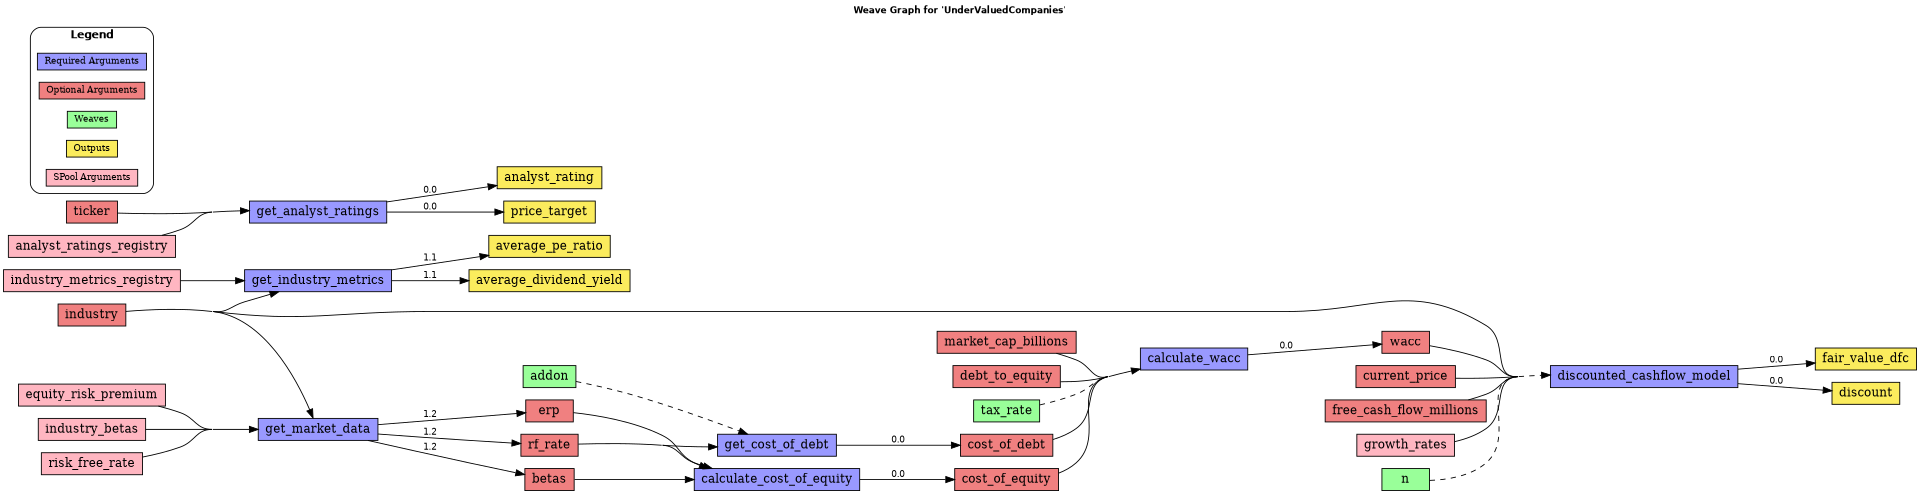
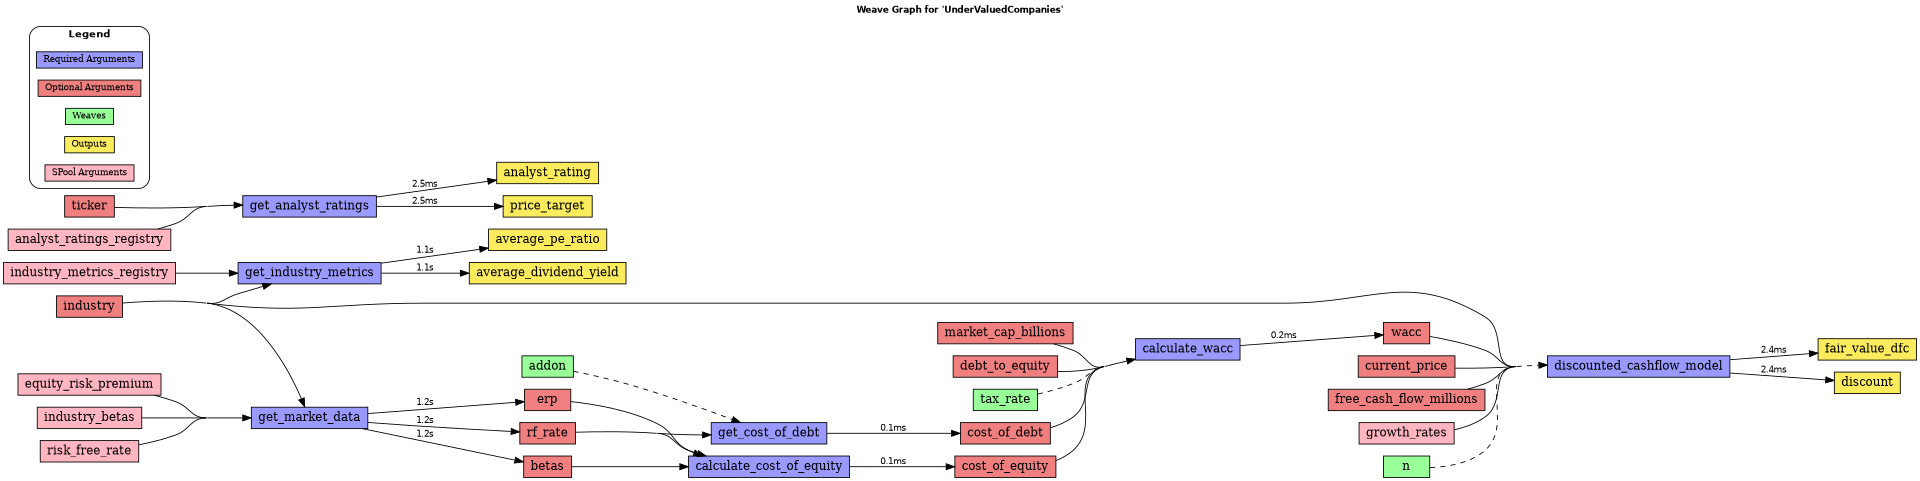
minor changes

diff --git a/tests/test_utils/test_helpers.py b/tests/test_utils/test_helpers.py
@@ -1,0 +1,72 @@
+import pytest
+
+from weaveflow._utils import _auto_convert_time_delta
+
+
+@pytest.mark.parametrize(
+    ("input_seconds", "expected_output"),
+    [
+        (0, "0.0ms"),  # Zero case
+        (0.5, "500.0ms"),  # Standard case
+        (0.999, "999.0ms"),  # Edge case, just below 1s
+        (0.0005, "0.5ms"),  # Test rounding up
+        (0.0004, "0.4ms"),  # Test rounding down
+    ],
+)
+def test_converts_to_milliseconds(input_seconds, expected_output):
+    """Test that deltas less than 1 second are converted to milliseconds."""
+    assert _auto_convert_time_delta(input_seconds) == expected_output
+
+
+@pytest.mark.parametrize(
+    ("input_seconds", "expected_output"),
+    [
+        (1, "1.0s"),  # Boundary value
+        (30.56, "30.6s"),  # Test rounding to one decimal
+        (59.9, "59.9s"),  # Edge case, just below 60s
+        (59.99, "60.0s"),  # Test rounding at the boundary
+    ],
+)
+def test_converts_to_seconds(input_seconds, expected_output):
+    """Test that deltas between 1 and 60 seconds are formatted correctly."""
+    assert _auto_convert_time_delta(input_seconds) == expected_output
+
+
+@pytest.mark.parametrize(
+    ("input_seconds", "expected_output"),
+    [
+        (60, "1.0m"),  # Boundary value
+        (125, "2.1m"),  # Test integer division (truncation)
+        (3599, "60.0m"),  # Edge case, just below 1h
+    ],
+)
+def test_converts_to_minutes(input_seconds, expected_output):
+    """Test that deltas between 60 and 3600 seconds are converted to minutes."""
+    assert _auto_convert_time_delta(input_seconds) == expected_output
+
+
+@pytest.mark.parametrize(
+    ("input_seconds", "expected_output"),
+    [
+        (3600, "1.0h"),  # Boundary value
+        (7205, "2.0h"),  # Test integer division (truncation)
+        (86400, "24.0h"),  # One full day
+    ],
+)
+def test_converts_to_hours(input_seconds, expected_output):
+    """Test that deltas of 3600 seconds or more are converted to hours."""
+    assert _auto_convert_time_delta(input_seconds) == expected_output
+
+
+@pytest.mark.parametrize(
+    ("input_seconds", "expected_output"),
+    [
+        (-0.5, "-500.0ms"),
+        (-10, "-10.0s"),
+        (-120, "-2.0m"),
+        (-3600, "-1.0h"),
+    ],
+)
+def test_handles_negative_values(input_seconds, expected_output):
+    """Test that the function handles negative inputs predictably."""
+    assert _auto_convert_time_delta(input_seconds) == expected_output

diff --git a/weaveflow/_errors/_matrix.py b/weaveflow/_errors/_matrix.py
@@ -32,3 +32,32 @@ class InvalidTaskCollectionError(ValueError):
 
     def __init__(self, detail: str):
         super().__init__(f"Invalid task collection for WeaveMatrix: {detail}")
+
+
+def _validate_registry_type(registry: dict) -> dict:
+    if not isinstance(registry, dict):
+        raise InvalidTaskCollectionError("Registry must be a dictionary")
+
+    for task_name, meta in registry.items():
+        if not isinstance(task_name, str):
+            raise InvalidTaskCollectionError("Task names must be strings")
+        if not isinstance(meta, dict):
+            raise InvalidTaskCollectionError("Task metadata must be a dictionary")
+        for key, value in meta.items():
+            if not isinstance(key, str):
+                raise InvalidTaskCollectionError("Metadata keys must be strings")
+
+            if key == "delta_time" and not isinstance(value, (int, float)):
+                raise InvalidTaskCollectionError("Delta time must be a number")
+
+            if key != "delta_time" and not isinstance(value, (str, list)):
+                raise InvalidTaskCollectionError("Metadata values must be Iterable or str")
+
+            if (
+                key != "delta_time"
+                and isinstance(value, list)
+                and not all(isinstance(v, str) for v in value)
+            ):
+                raise InvalidTaskCollectionError("Metadata lists must contain strings")
+
+    return registry

diff --git a/weaveflow/_utils/helpers.py b/weaveflow/_utils/helpers.py
@@ -19,3 +19,22 @@ def _dump_str_to_list(s: str | list) -> list[str]:
         return s
     else:
         raise TypeError("Argument must be a string or a list of strings.")
+
+
+def _auto_convert_time_delta(delta_in_seconds: int | float) -> float:
+    """Convert a time delta to human-readable format."""
+
+    # Handle the sign separately
+    if delta_in_seconds < 0:
+        # Rerun the function with the positive equivalent and add a "-" prefix
+        return f"-{_auto_convert_time_delta(abs(delta_in_seconds))}"
+
+    # Convert to the appropriate unit
+    if delta_in_seconds < 1:
+        return f"{delta_in_seconds * 1000:.1f}ms"
+    if delta_in_seconds < 60:
+        return f"{delta_in_seconds:.1f}s"
+    if delta_in_seconds < 3600:
+        return f"{delta_in_seconds / 60:.1f}m"
+
+    return f"{delta_in_seconds / 3600:.1f}h"

diff --git a/weaveflow/_utils/__init__.py b/weaveflow/_utils/__init__.py
@@ -5,7 +5,7 @@ within the weaveflow package.
 
 from weaveflow._utils.config import _get_option, set_weaveflow_option
 from weaveflow._utils.filesystem import _handle_files_from_iterable
-from weaveflow._utils.helpers import _dump_str_to_list
+from weaveflow._utils.helpers import _auto_convert_time_delta, _dump_str_to_list
 from weaveflow._utils.inspect import _dump_object_to_dict, _get_function_args
 from weaveflow._utils.loaders import _load_config_data
 from weaveflow._utils.parsers import _ConfigReader
@@ -14,6 +14,7 @@ from weaveflow._utils.parsers import _ConfigReader
 # only contains methods/objects used within the package
 __all__ = [
     "_ConfigReader",
+    "_auto_convert_time_delta",
     "_dump_object_to_dict",
     "_dump_str_to_list",
     "_get_function_args",

diff --git a/weaveflow/core/nxgraph.py b/weaveflow/core/nxgraph.py
@@ -34,6 +34,8 @@ import graphviz
 import networkx as nx
 from pandas import DataFrame
 
+from weaveflow._utils import _auto_convert_time_delta
+
 from ._matrix import WeaveMatrix
 from .loom import Loom
 
@@ -174,7 +176,7 @@ class _BaseGraph(ABC):
                 if not available.
         """
         dt = collection[node]["delta_time"] if node in collection else None
-        return f"{dt:,.1f}" if dt else None
+        return _auto_convert_time_delta(dt) if dt else None
 
     def _style_graph_nodes(self, g: graphviz.Digraph, shapes: dict, colors: dict):
         """Applies styles (shape, color) to all nodes in the graph.

diff --git a/weaveflow/core/_matrix.py b/weaveflow/core/_matrix.py
@@ -26,7 +26,7 @@ from collections.abc import Mapping
 
 import pandas as pd
 
-from weaveflow._errors import InvalidTaskCollectionError
+from weaveflow._errors import InvalidTaskCollectionError, _validate_registry_type
 
 
 class WeaveMatrix:
@@ -57,6 +57,7 @@ class WeaveMatrix:
             raise InvalidTaskCollectionError(
                 "task_collection must be a mapping of task_name -> dict"
             )
+        task_collection = _validate_registry_type(task_collection)
         self._tasks = task_collection or {}
 
     def build(self) -> pd.DataFrame:

diff --git a/weaveflow/_errors/__init__.py b/weaveflow/_errors/__init__.py
@@ -3,10 +3,11 @@ This module centralizes custom exception types for the weaveflow package,
 making them easily importable from a single location.
 """
 
-from ._matrix import InvalidTaskCollectionError
+from ._matrix import InvalidTaskCollectionError, _validate_registry_type
 from ._spool import ParamsFromIsNotASpoolError
 
 __all__ = [
     "InvalidTaskCollectionError",
     "ParamsFromIsNotASpoolError",
+    "_validate_registry_type",
 ]
